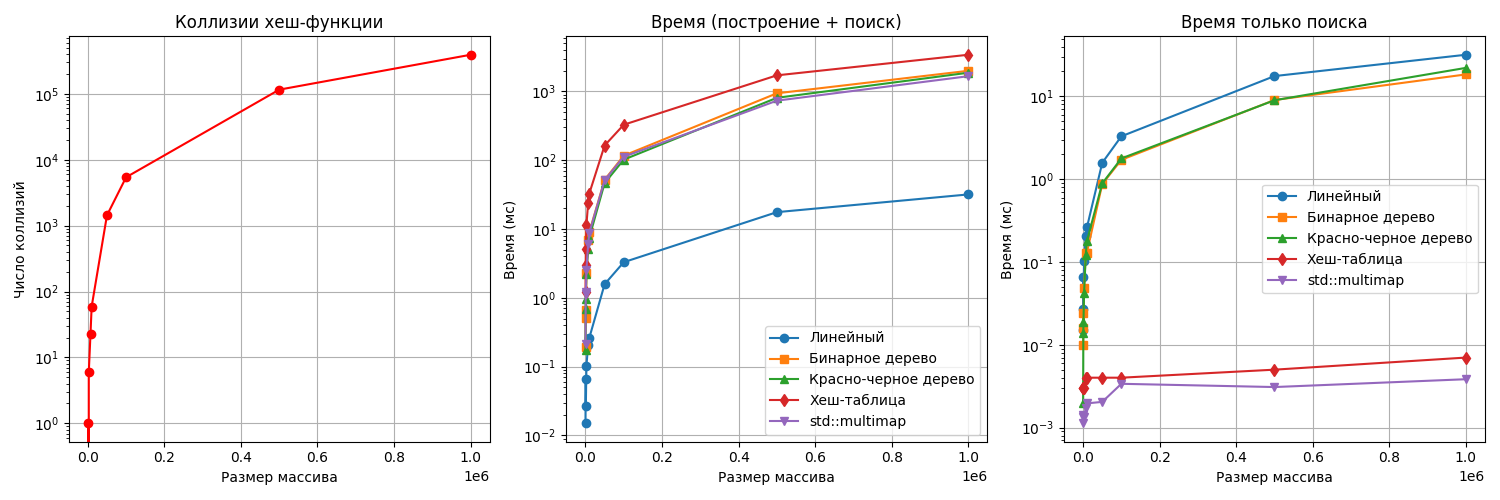
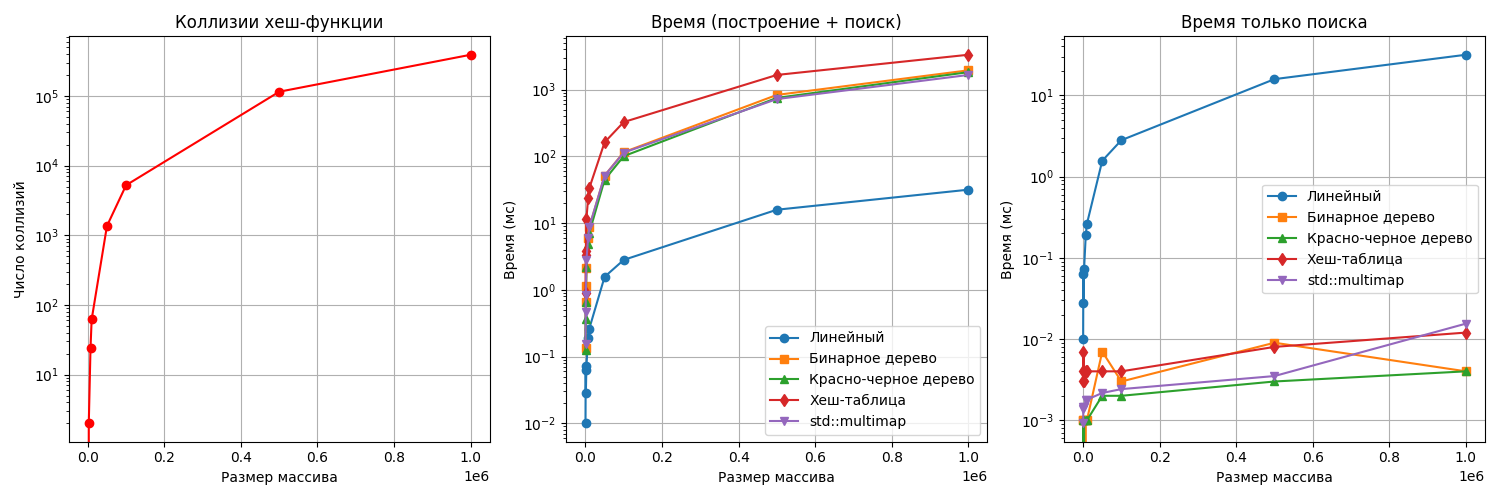
fix

diff --git a/rb_tree.cpp b/rb_tree.cpp
@@ -204,21 +204,38 @@ rb_node* rb_tree::rotate_right(rb_node* subroot) {
 
 flat* rb_tree::find(const string& key, size_t& size) const {
   size = 0;
-  flat* res = new flat[this->size_];
-  if (!size_) return res;
+  if (!size_) return nullptr;
   rb_node* cur = root_;
+  rb_node* start = nullptr;
   while (true) {
     if (*cur == key) {
-      res[size] = *cur->get_here();
       ++size;
-      if (cur->left_free()) return res;
+      if (!start) start = cur;
+      if (cur->left_free()) break;
       cur = cur->get_left();
     } else if (*cur < key) {
-      if (cur->right_free()) return res;
+      if (cur->right_free()) break;
       cur = cur->get_right();
     } else {
-      if (cur->left_free()) return res;
+      if (cur->left_free()) break;
       cur = cur->get_left();
+    }
+  }
+  if (size == 0) return nullptr;
+  size_t c = 0;
+  flat* res = new flat[size];
+  while (true) {
+    if (*start == key) {
+      res[c] = *start->get_here();
+      ++c;
+      if (start->left_free()) return res;
+      start = start->get_left();
+    } else if (*start < key) {
+      if (start->right_free()) return res;
+      start = start->get_right();
+    } else {
+      if (start->left_free()) return res;
+      start = start->get_left();
     }
   }
 }

diff --git a/tree.cpp b/tree.cpp
@@ -92,21 +92,38 @@ void tree::add_elem(flat* new_elem) {
 
 flat* tree::find(const string& key, size_t& size) const {
   size = 0;
-  flat* res = new flat[this->size_];
-  if (top_free()) return res;
+  if (top_free()) return nullptr;
   leaf* cur = top_;
+  leaf* start = nullptr;
   while (true) {
     if (*cur == key) {
-      res[size] = *cur->get_here();
       ++size;
-      if (cur->left_free()) return res;
+      if (!start) start = cur;
+      if (cur->left_free()) break;
       cur = cur->get_left();
     } else if (*cur < key) {
-      if (cur->right_free()) return res;
+      if (cur->right_free()) break;
       cur = cur->get_right();
     } else {
-      if (cur->left_free()) return res;
+      if (cur->left_free()) break;
       cur = cur->get_left();
+    }
+  }
+  if (size == 0) return nullptr;
+  size_t c = 0;
+  flat* res = new flat[size];
+  while (true) {
+    if (*start == key) {
+      res[c] = *start->get_here();
+      ++c;
+      if (start->left_free()) return res;
+      start = start->get_left();
+    } else if (*start < key) {
+      if (start->right_free()) return res;
+      start = start->get_right();
+    } else {
+      if (start->left_free()) return res;
+      start = start->get_left();
     }
   }
 }
